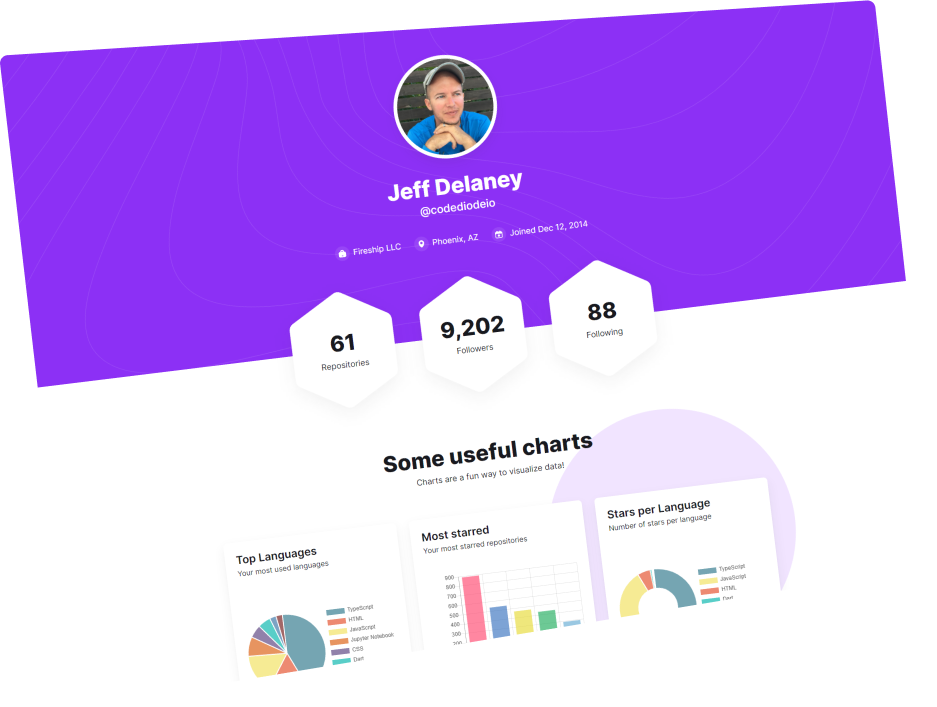
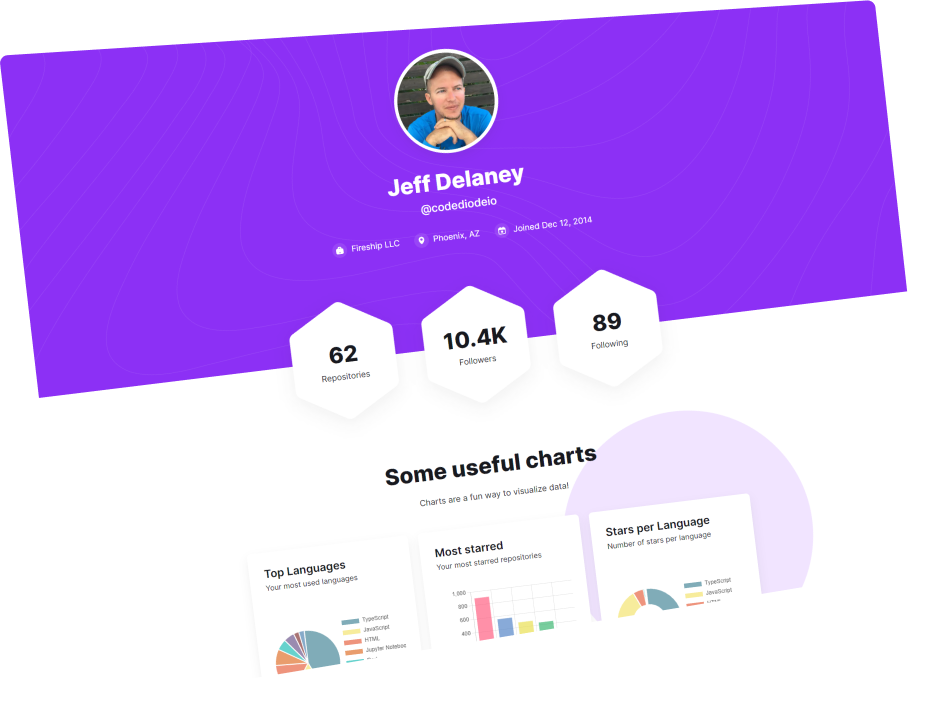
fix bubble position & image rendering

diff --git a/src/components/templates/Hero.tsx b/src/components/templates/Hero.tsx
@@ -183,7 +183,9 @@ const Hero: FC = () => {
               `}
             >
               <Image
-                unoptimized
+                css={css`
+                  image-rendering: -webkit-optimize-contrast;
+                `}
                 src={appPreview}
                 placeholder="blur"
                 alt="App Preview"

diff --git a/src/components/templates/UsefulCharts.tsx b/src/components/templates/UsefulCharts.tsx
@@ -96,7 +96,10 @@ const UsefulCharts: FC = () => {
     width: 540px;
     height: 540px;
     z-index: -2;
-    transform: translateX(75%) translateY(-5%);
+    transform: translateX(60%) translateY(-5%);
+    @media (min-width: ${Screens.sm}px) {
+      transform: translateX(75%) translateY(-5%);
+    }
   `;
 
   return (
